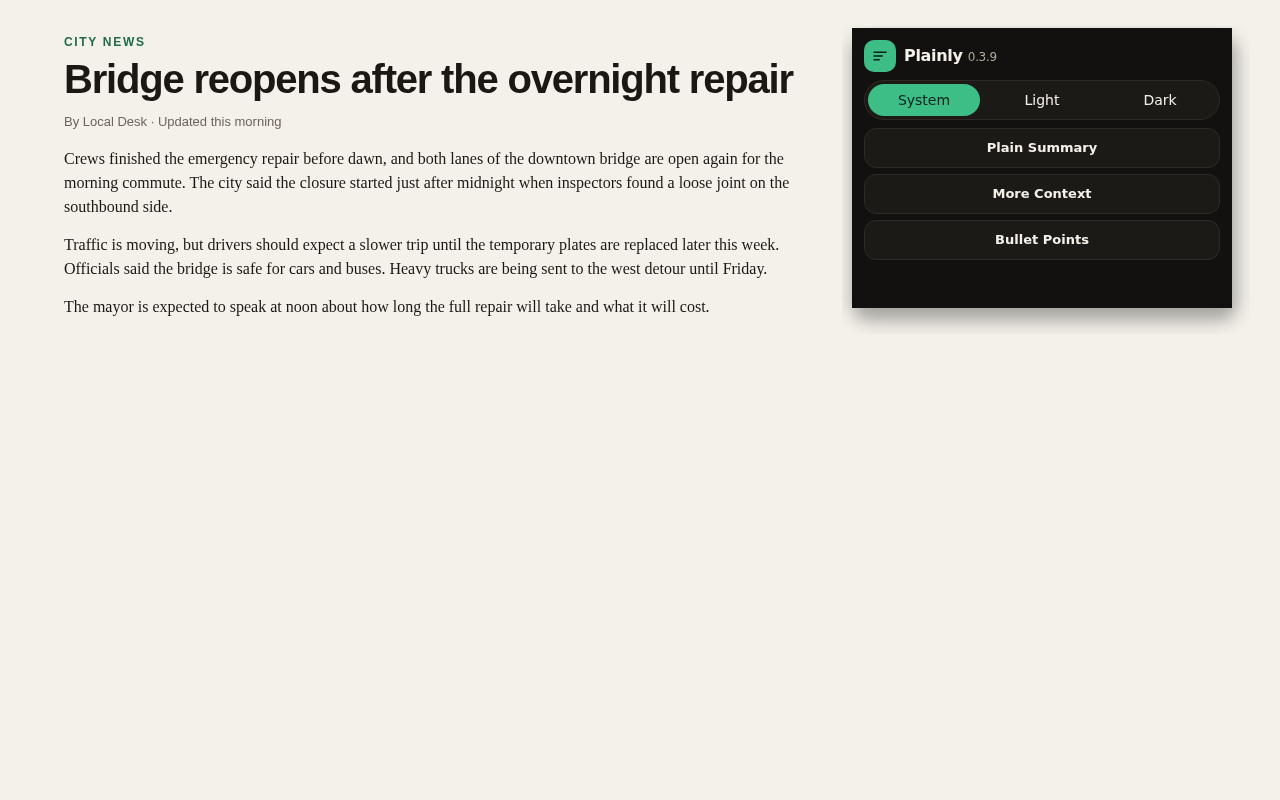
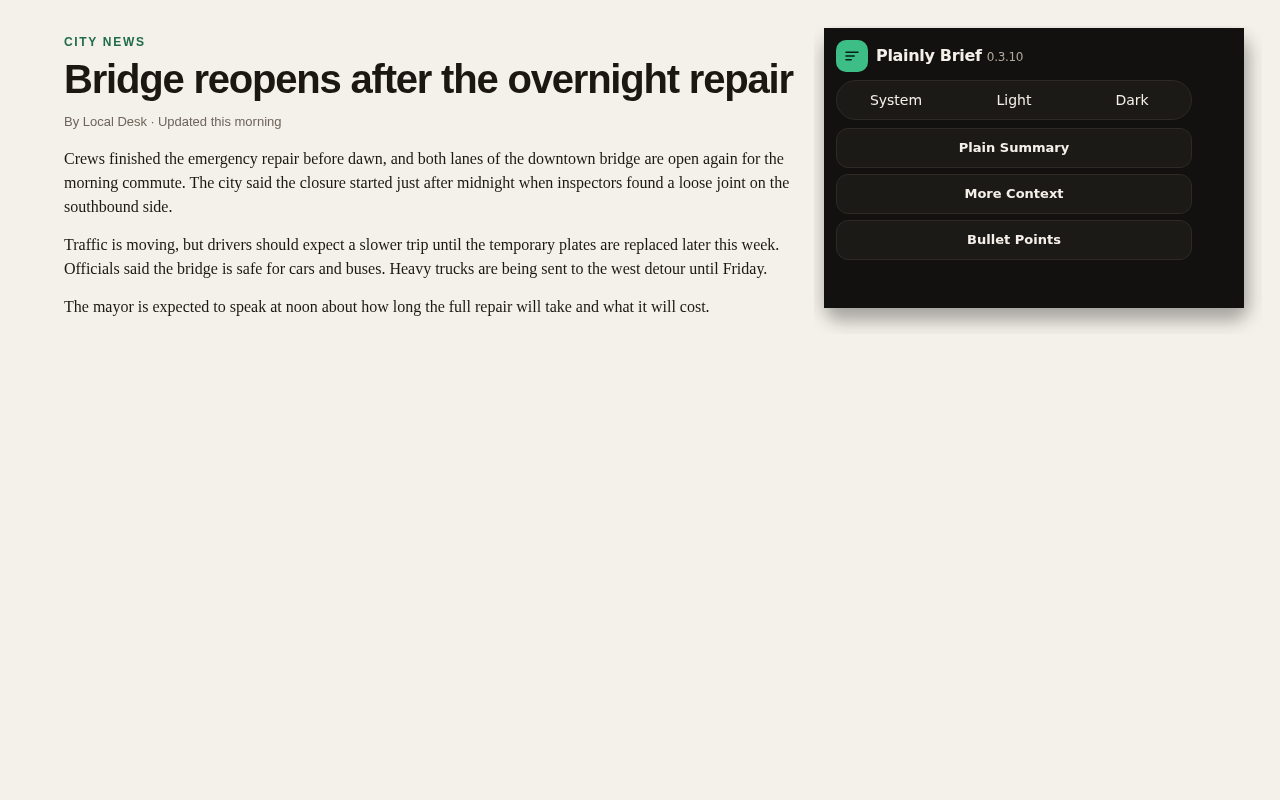
Rename the add-on to Plainly Brief so the Mozilla slug is free.

diff --git a/extension/page.js b/extension/page.js
@@ -447,11 +447,11 @@
       .map((block) => block.text)
       .join("\n\n");
     if (source.length < 40) {
-      return { ok: false, reason: "No article text found on this page. Paste it into Plainly instead." };
+      return { ok: false, reason: "No article text found on this page." };
     }
     let root = document.getElementById(ROOT_ID);
     const ver = root?.shadowRoot?.querySelector(".ver")?.textContent;
-    if (root && ver !== "0.3.9") {
+    if (root && ver !== "0.3.10") {
       root.remove();
       root = null;
     }
@@ -476,8 +476,8 @@
           <button type="button" id="plainly-close" aria-label="Close">×</button>
           <header>
             <div class="brandline">
-              <strong>Plainly</strong>
-              <span class="ver">0.3.9</span>
+              <strong>Plainly Brief</strong>
+              <span class="ver">0.3.10</span>
               <span id="plainly-grade"></span>
             </div>
             <div class="actions">

diff --git a/extension/popup.html b/extension/popup.html
@@ -3,7 +3,7 @@
   <head>
     <meta charset="utf-8" />
     <meta name="viewport" content="width=device-width, initial-scale=1" />
-    <title>Plainly</title>
+    <title>Plainly Brief</title>
     <link rel="stylesheet" href="popup.css" />
   </head>
   <body>
@@ -14,7 +14,7 @@
             <path d="M4 7h16M4 12h11M4 17h7"></path>
           </svg>
         </span>
-        <h1>Plainly <span class="ver" id="unlock">0.3.9</span></h1>
+        <h1>Plainly Brief <span class="ver" id="unlock">0.3.10</span></h1>
       </div>
     </header>
 

diff --git a/README.md b/README.md
@@ -1,8 +1,8 @@
-# Plainly
+# Plainly Brief
 
 A Firefox extension that turns a news article into a shorter, plainer summary on your device. Nothing is uploaded.
 
-Current version: **0.3.9**
+Current version: **0.3.10**
 
 ## Load it in Firefox
 
@@ -10,7 +10,7 @@ The `.xpi` is unsigned, so Firefox will only keep it until you quit.
 
 1. Open `about:debugging#/runtime/this-firefox`
 2. Click **Load Temporary Add-on…**
-3. Choose [Plainly-0.3.9.xpi](https://github.com/stumpyteam/plainly/releases/download/v0.3.9/Plainly-0.3.9.xpi), or choose `extension/manifest.json`
+3. Choose [Plainly-Brief-0.3.10.xpi](https://github.com/stumpyteam/plainly/releases/download/v0.3.10/Plainly-Brief-0.3.10.xpi), or choose `extension/manifest.json`
 4. Open an article and click the Plainly toolbar button
 
 ## What it does
@@ -25,7 +25,7 @@ The `.xpi` is unsigned, so Firefox will only keep it until you quit.
 
 - `extension/` is the add-on (Manifest V3)
 - `src/simplify.ts` is the summarizer. `extension/simplify.js` is the copy the add-on loads
-- `Plainly-0.3.9.xpi` is the packed add-on for temporary install
+- `Plainly-Brief-0.3.10.xpi` is the packed add-on for temporary install
 
 Firefox's own pages (`about:`, settings, addons.mozilla.org) cannot be rewritten. Open a normal article instead.
 
